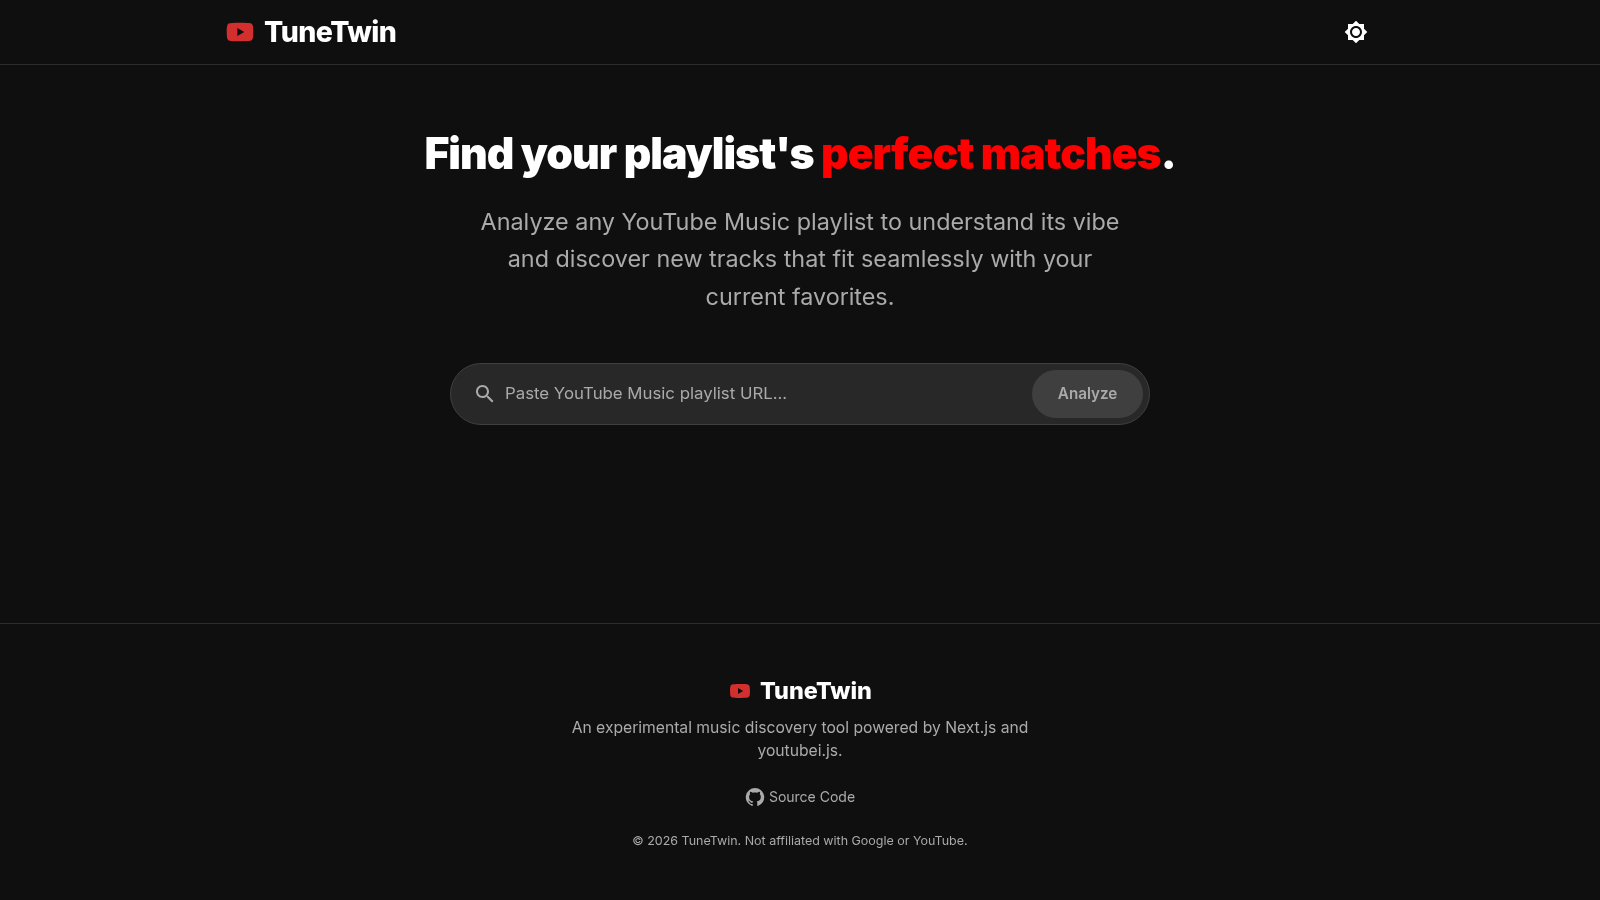
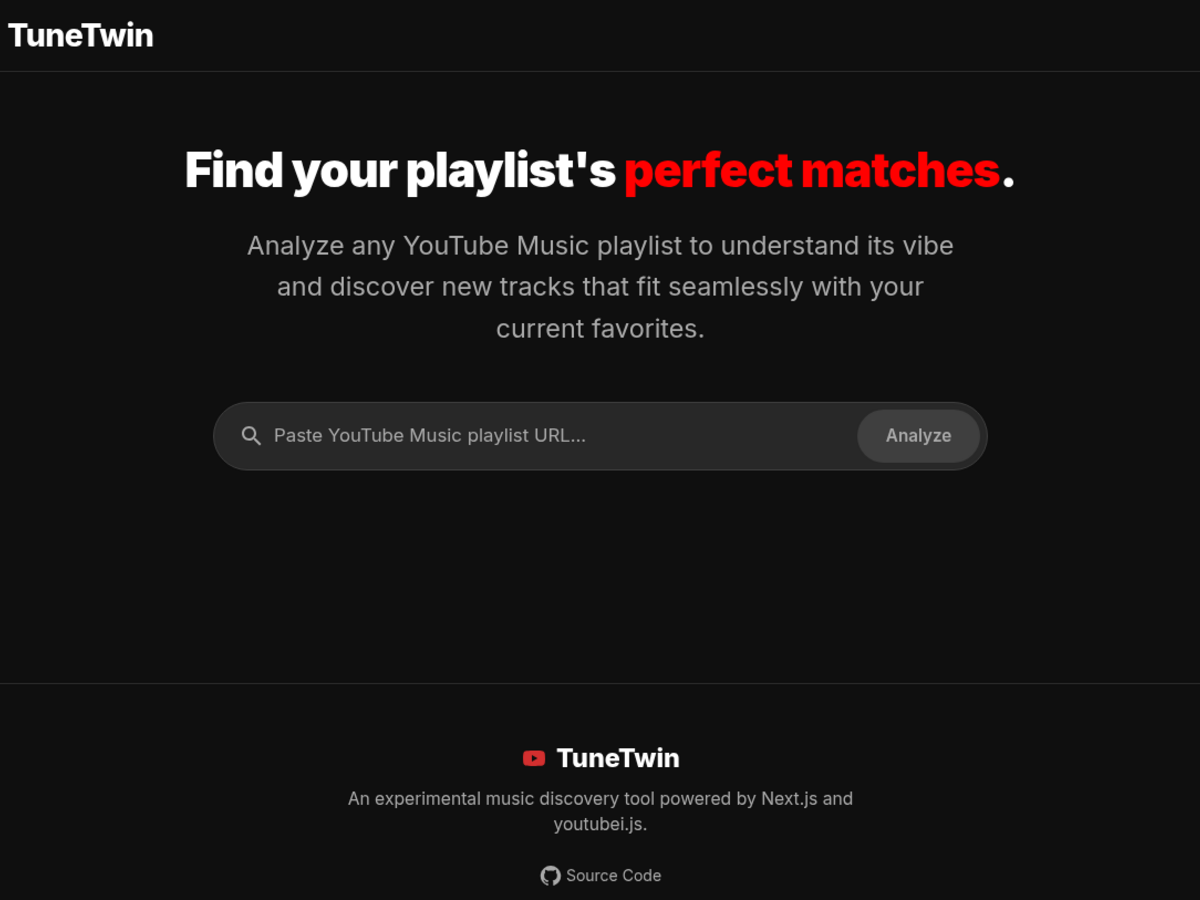
content: update Tune Twin cover (landing page) and final (URL-input action); verify Nexus/ShelfSync finals show app in use

diff --git a/src/pages/projects/projects.css b/src/pages/projects/projects.css
@@ -978,11 +978,10 @@ section[id] {
 
 .toc-card h4 {
   margin: 0;
-  font-size: var(--step--1);
-  font-weight: 600;
+  font-size: var(--step-2);
+  font-weight: 700;
   color: var(--m3-color-primary);
-  text-transform: uppercase;
-  letter-spacing: 0.04em;
+  letter-spacing: 0.02em;
 }
 
 .toc-toggle {
@@ -1017,7 +1016,7 @@ section[id] {
 .toc-list a {
   text-decoration: none;
   color: var(--color-text-tertiary);
-  font-size: var(--step--1);
+  font-size: var(--step-1);
   line-height: 1.6;
   transition: color 0.15s;
   display: block;
